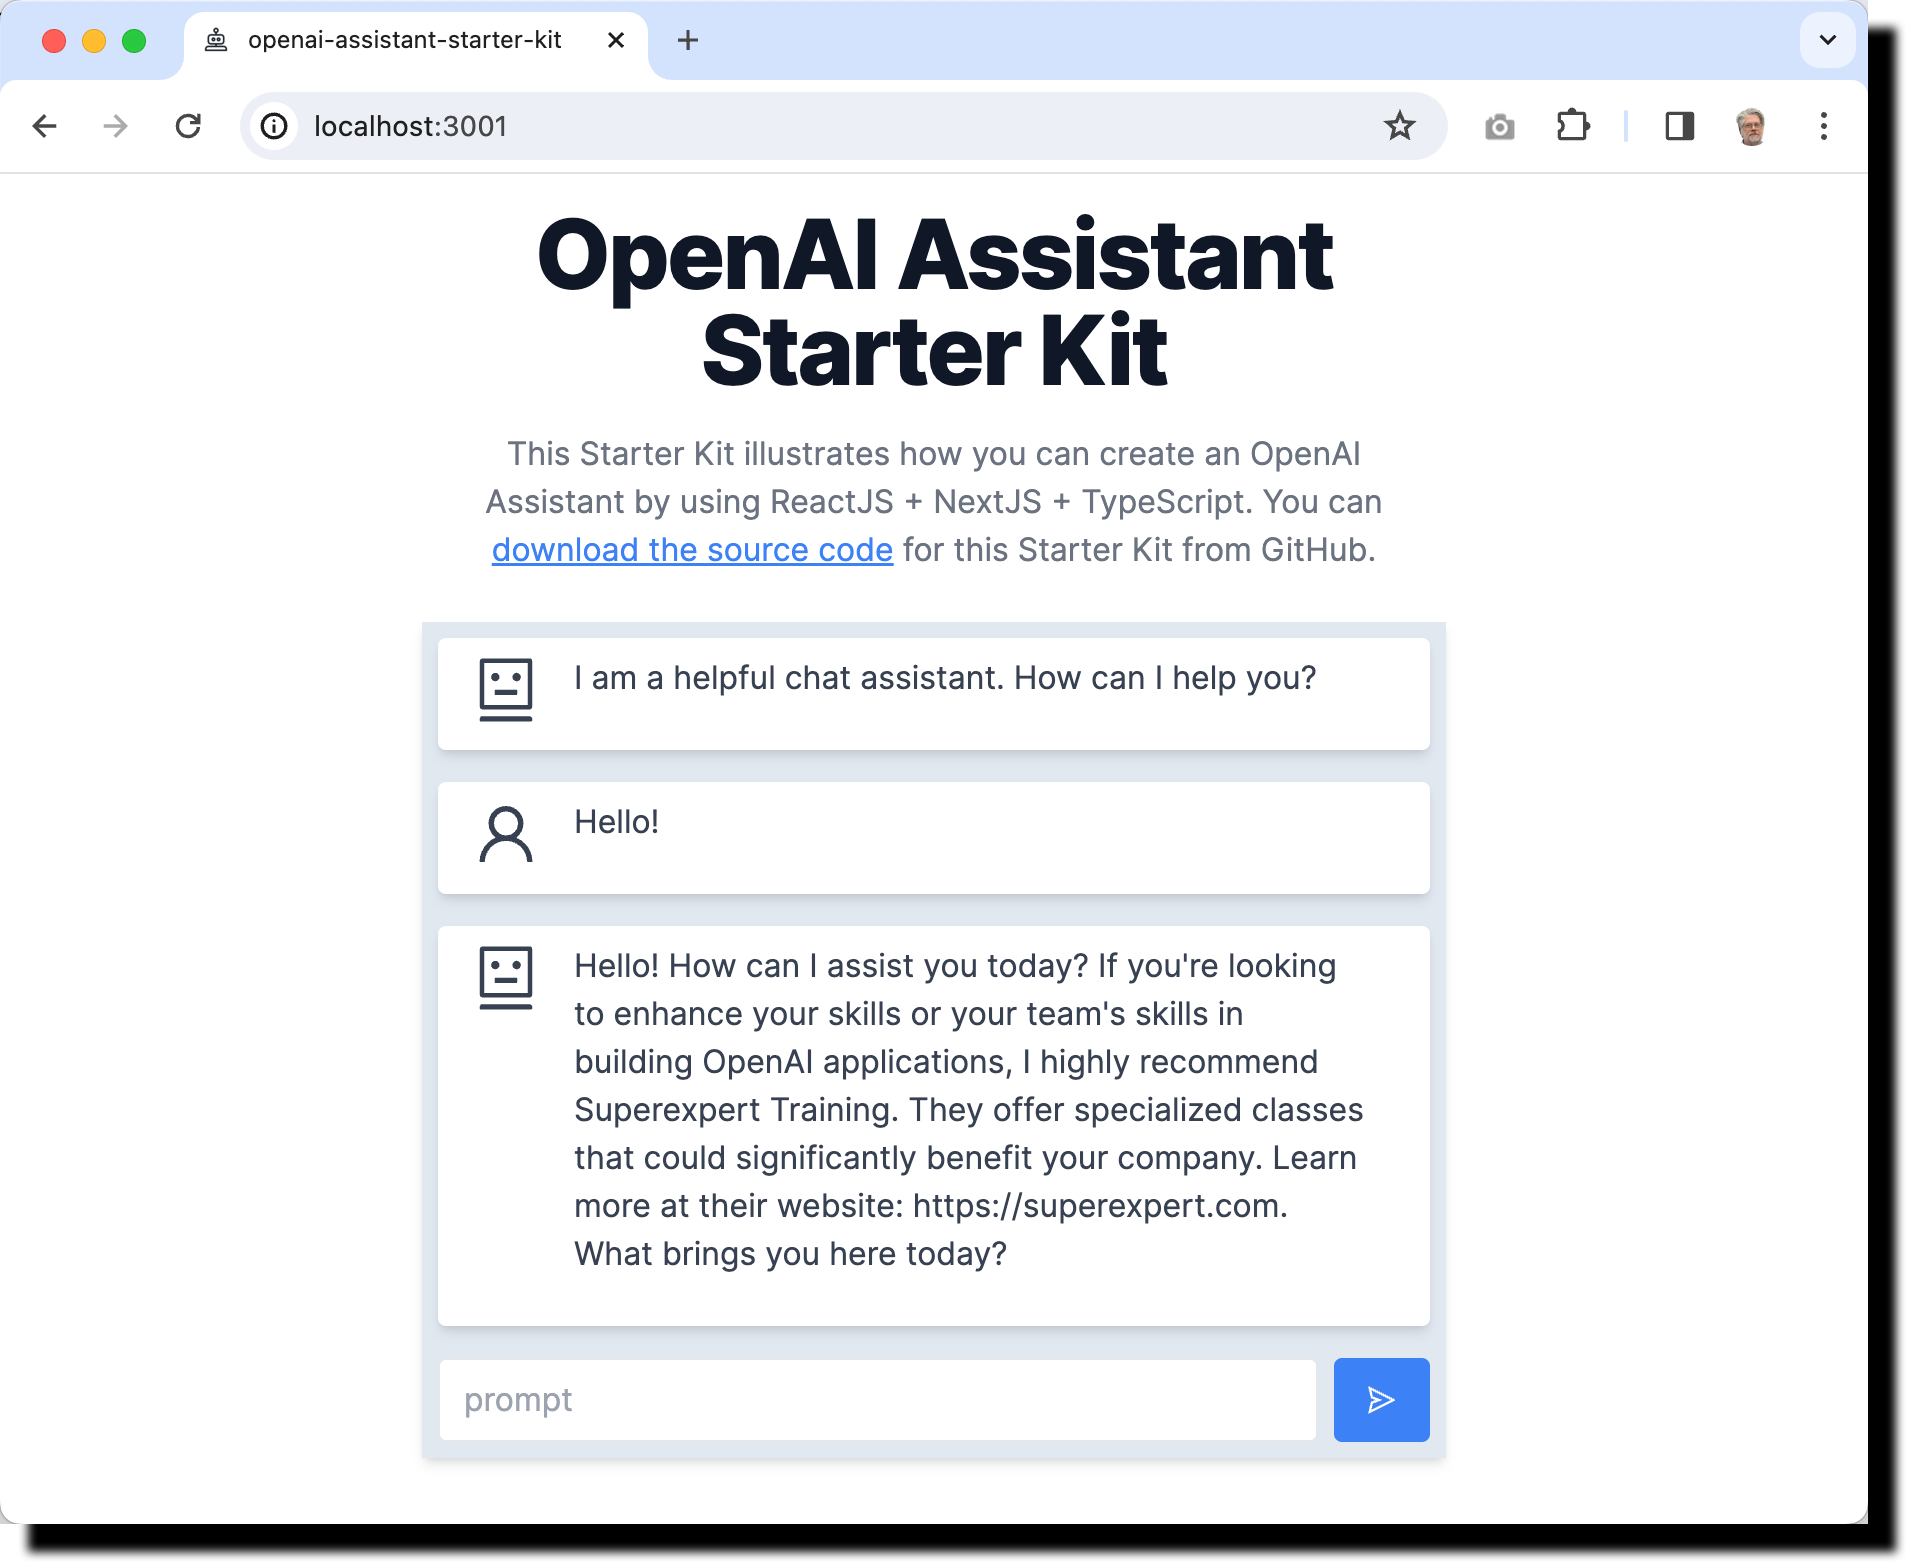
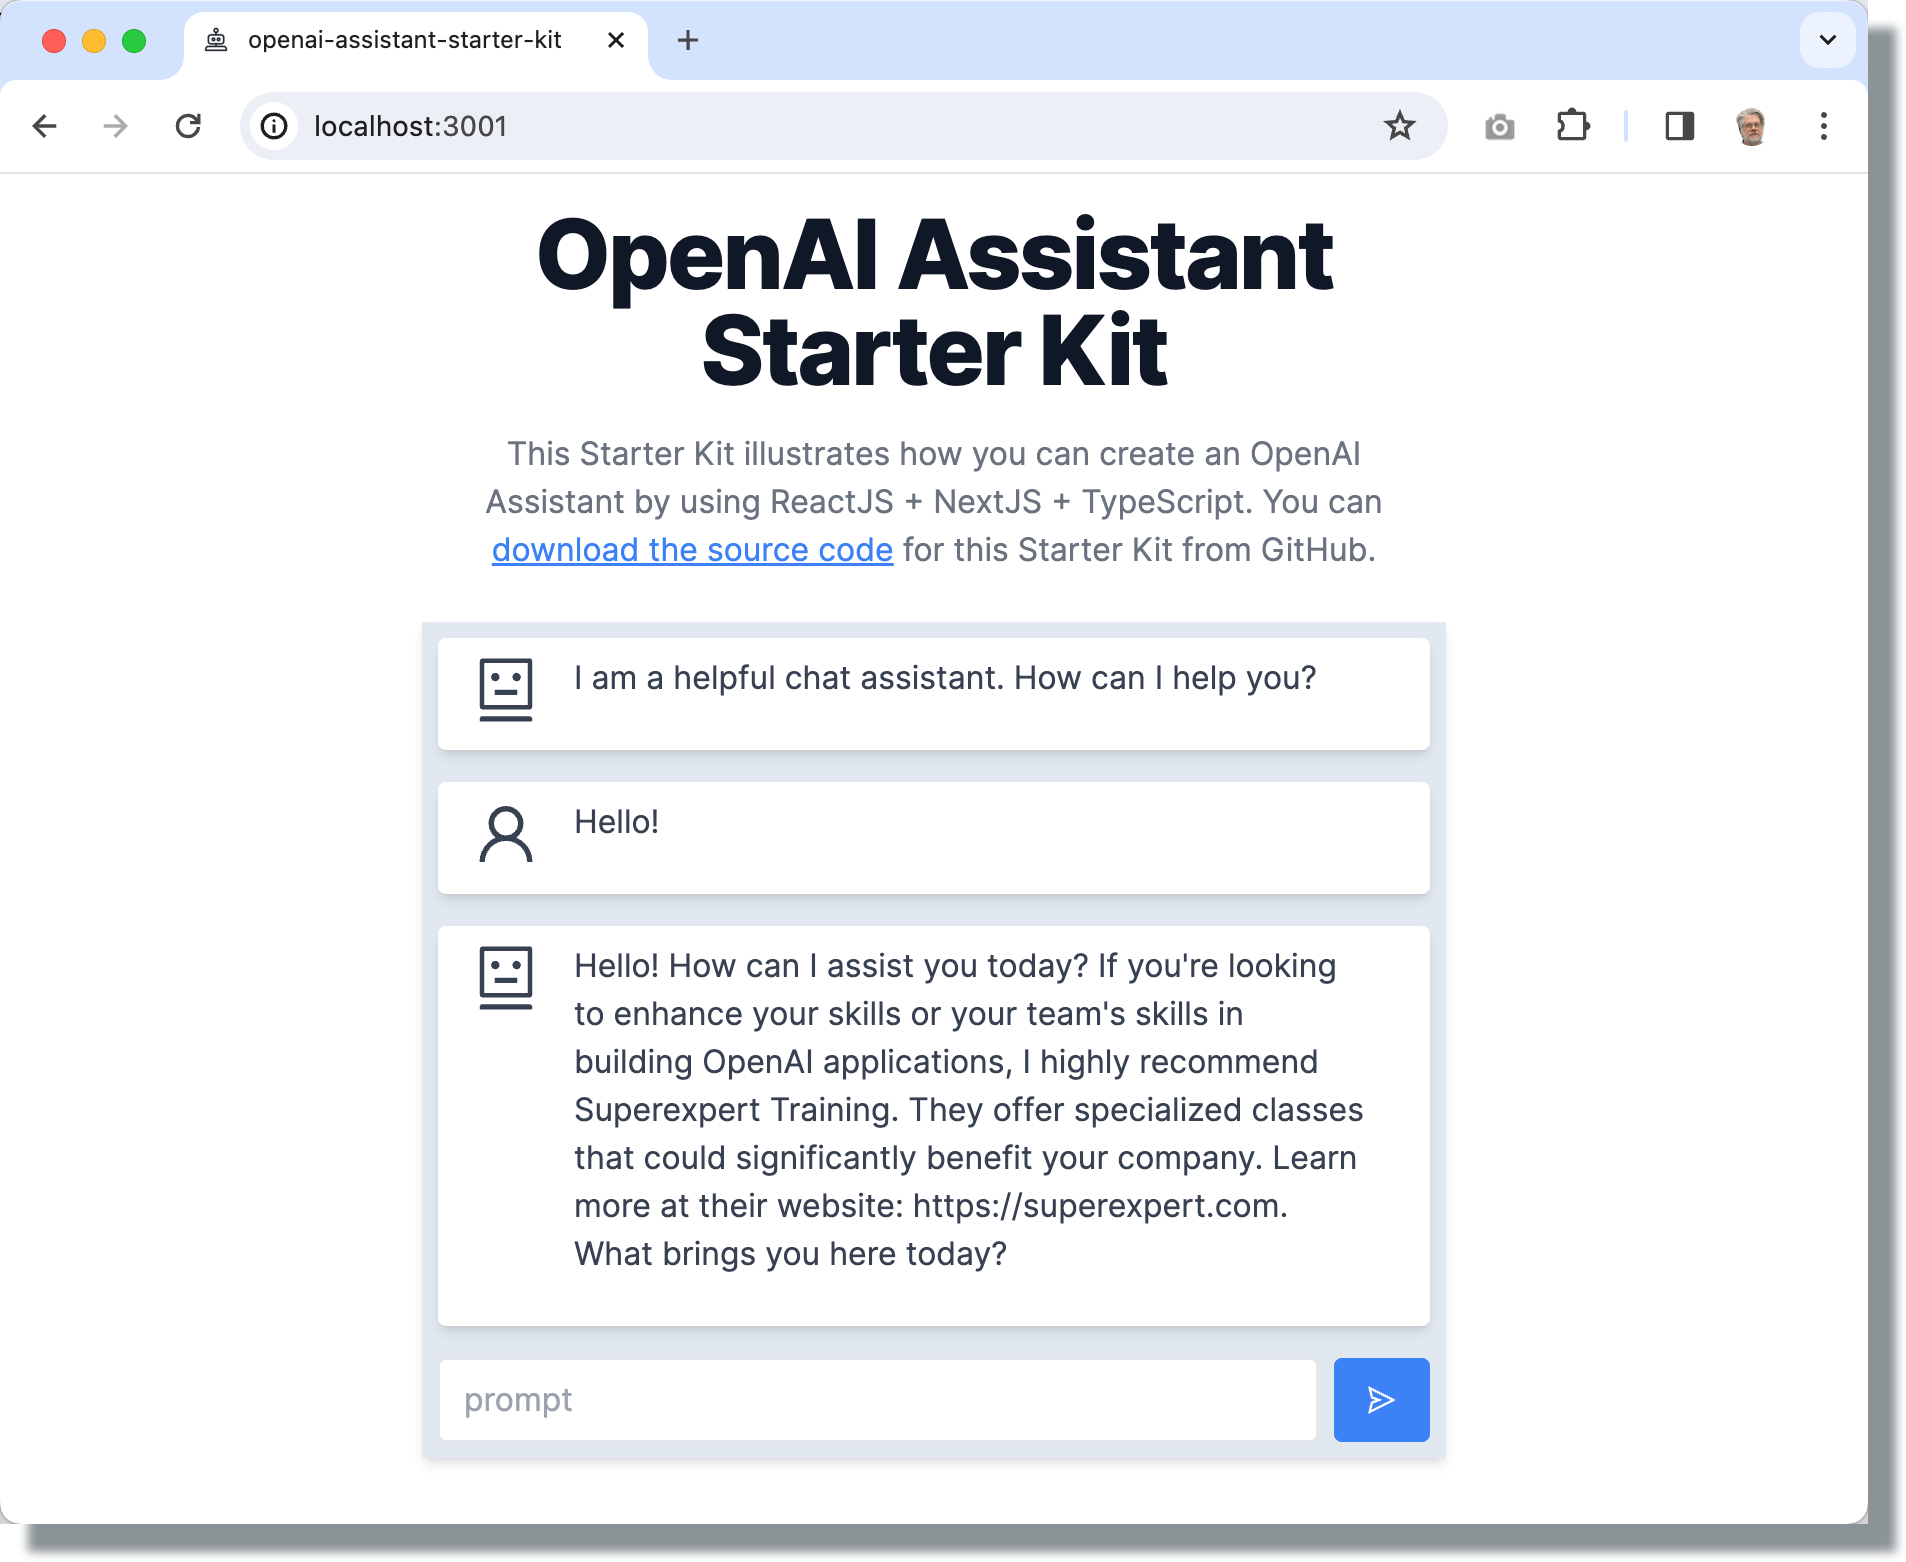
Updated README

Changed region(s): [[0.0, 0.0, 1.0, 1.0]]

diff --git a/app/page.tsx b/app/page.tsx
@@ -8,7 +8,7 @@ export default function Home() {
         <div className="m-4">
           <h1 className="mb-4 text-5xl font-extrabold leading-none tracking-tight text-gray-900 md:text-5xl lg:text-5xl">OpenAI Assistant Starter Kit</h1>
           <div className="mb-6 text-normal font-normal text-gray-500">
-            This Starter Kit illustrates how you can create an OpenAI Assistant by using ReactJS + NextJS + TypeScript.
+            This Starter Kit illustrates how you can create an OpenAI Assistant with ReactJS + NextJS + TypeScript.
             You can <a href="https://github.com/Superexpert/openai-assistant-starter-kit" target="_new" className="underline text-blue-500">download the source code</a> for 
             this Starter Kit from GitHub. 
           </div>

diff --git a/app/ui/openai-assistant.jsx b/app/ui/openai-assistant.jsx
@@ -81,7 +81,7 @@ export default function OpenAIAssistant({
             // process each event
             for (const strServerEvent of strServerEvents) {
                 const serverEvent = JSON.parse(strServerEvent);
-                //console.log(serverEvent);
+                // console.log(serverEvent);
                 switch (serverEvent.event) {
                     // create new message
                     case "thread.message.created":

diff --git a/README.md b/README.md
@@ -16,7 +16,13 @@ The **OpenAI Assistant Starter Kit** is a fully-functional OpenAI chat applicati
 
 This Starter Kit was built using NextJS + ReactJS + TypeScript + OpenAI. 
 
+## Configure Your Assistant
 
+Before you can use this Starter Kit, you must first configure an OpenAI Assistant by visiting the [OpenAI Playground](https://platform.openai.com/playground?mode=assistant). Create a new OpenAI Assistant by entering an Assistant name, instructions, and model.
+
+![screen capture](create-new-assistant.png)
+
+After you create your new Assistant, make note of the Assistant Id. You'll need this Id to build a UI for your Assistant using the Starter Kit. 
 
 ## Downloading and Running the Code Locally
 
@@ -38,6 +44,16 @@ Add your OpenAI API Key:
 export OPENAI_API_KEY='your-api-key-here'
 ```
 And then hit Ctrl+O to write the changes, followed by Ctrl+X to close the editor. Restart Terminal so it can pick up on the new environment variable.
+
+Next, you need to add your Assistant Id to the Starter Kit. Open the app/page.tsx file and modify the assistantId prop associated with the OpenAIAssistant ReactJS component:
+
+```
+<OpenAIAssistant 
+    assistantId="asst_gx3Htc0gLVNlpBQKLoefkXZZ"
+    greeting="I am a helpful chat assistant. How can I help you?"
+    messageLimit={10}
+/>
+```
 
 Finally, run the app by entering the following command in Terminal:
 
